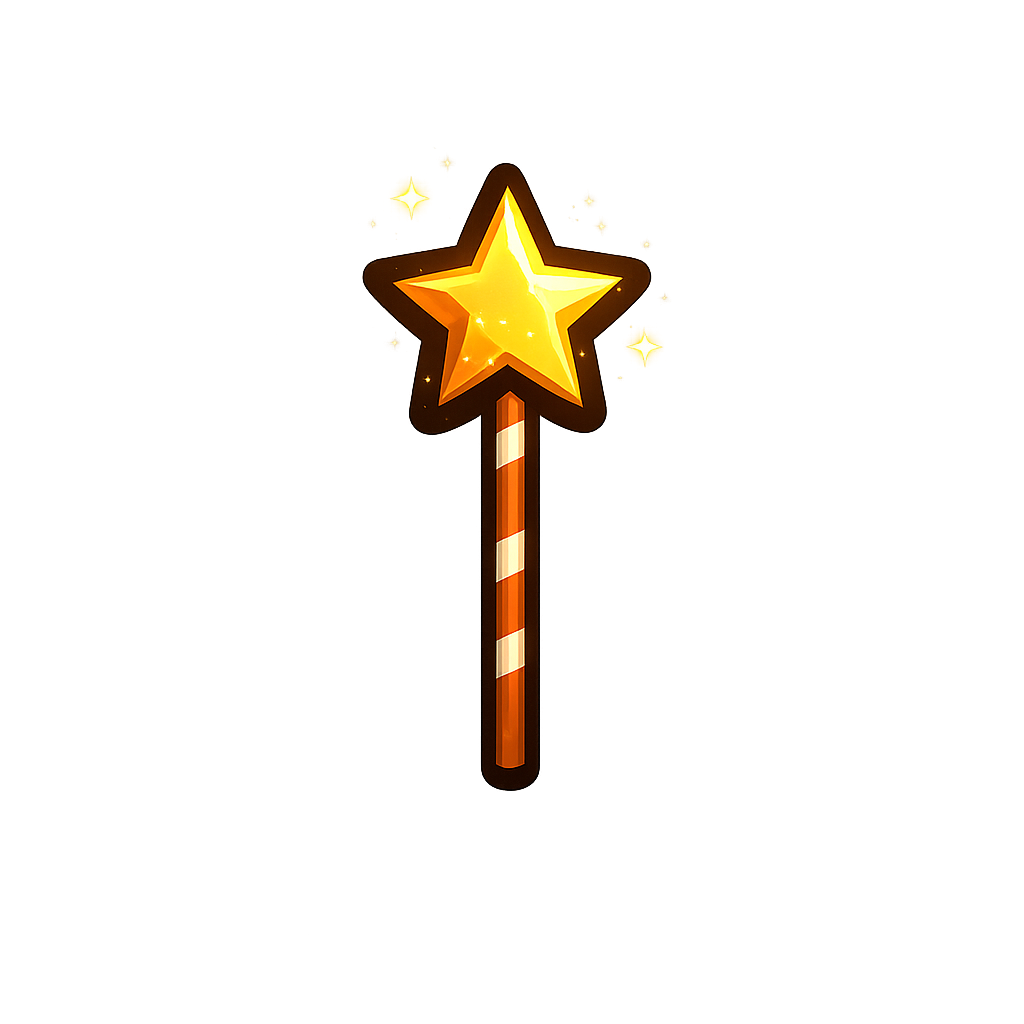
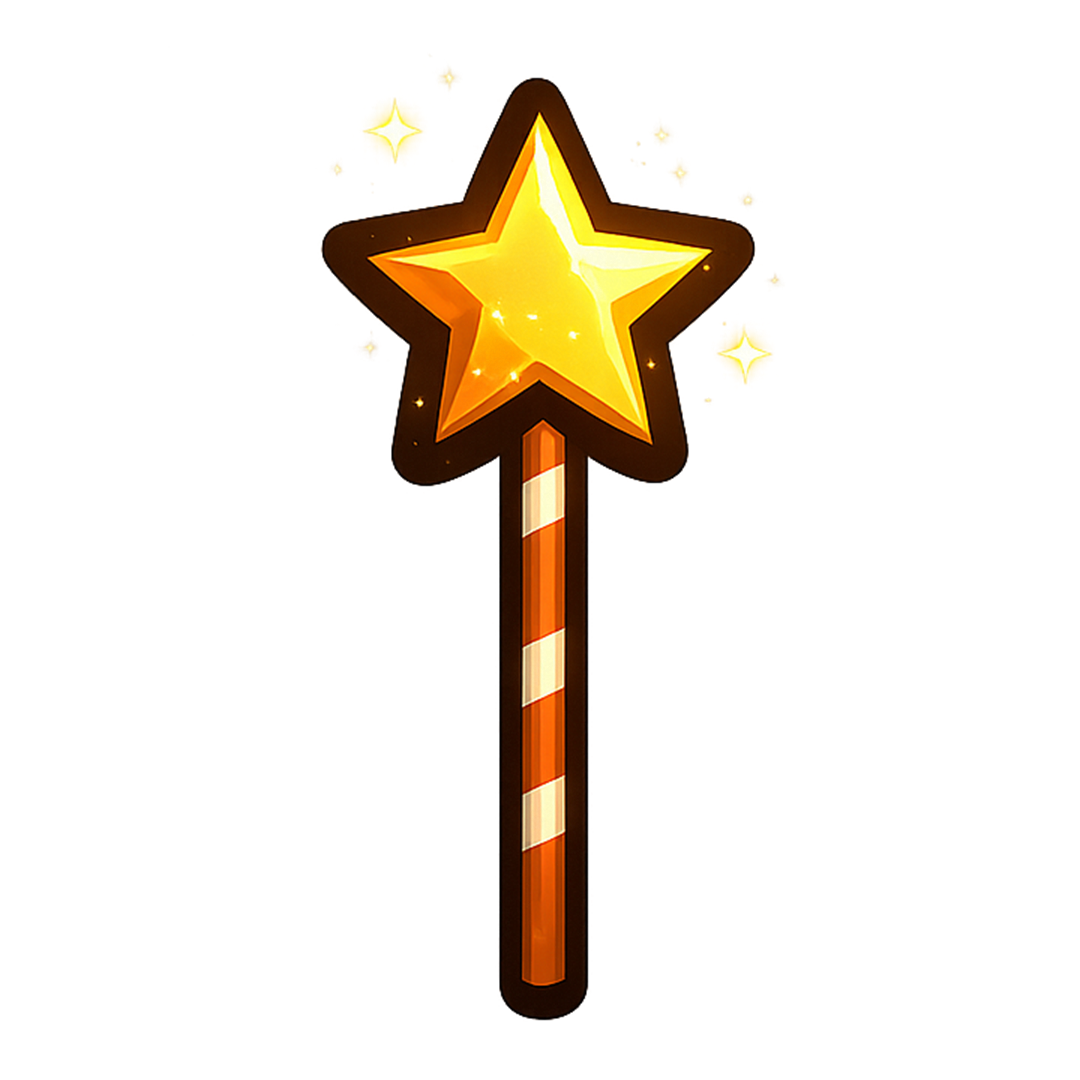
chore: 变更图标

Changed region(s): [[0.2812, 0.0625, 0.7188, 0.9688], [0.3438, 0.0938, 0.4062, 0.1562], [0.4062, 0.0625, 0.4375, 0.0938]]

diff --git a/lib/view/page/setting/about_page.dart b/lib/view/page/setting/about_page.dart
@@ -101,7 +101,7 @@ class _AboutPageState extends State<AboutPage> {
             context: context,
             applicationName: _packageInfo?.appName ?? 'GCC Next',
             applicationIcon: Image.asset(
-              'assets/images/app_icon_2.png',
+              'assets/images/app_icon.png',
               width: 72,
               height: 72,
               fit: BoxFit.cover,
@@ -147,7 +147,7 @@ class _AboutPageState extends State<AboutPage> {
           ClipRRect(
             borderRadius: BorderRadius.circular(24),
             child: Image.asset(
-              'assets/images/app_icon_2.png',
+              'assets/images/app_icon.png',
               width: 88,
               height: 88,
               fit: BoxFit.cover,
